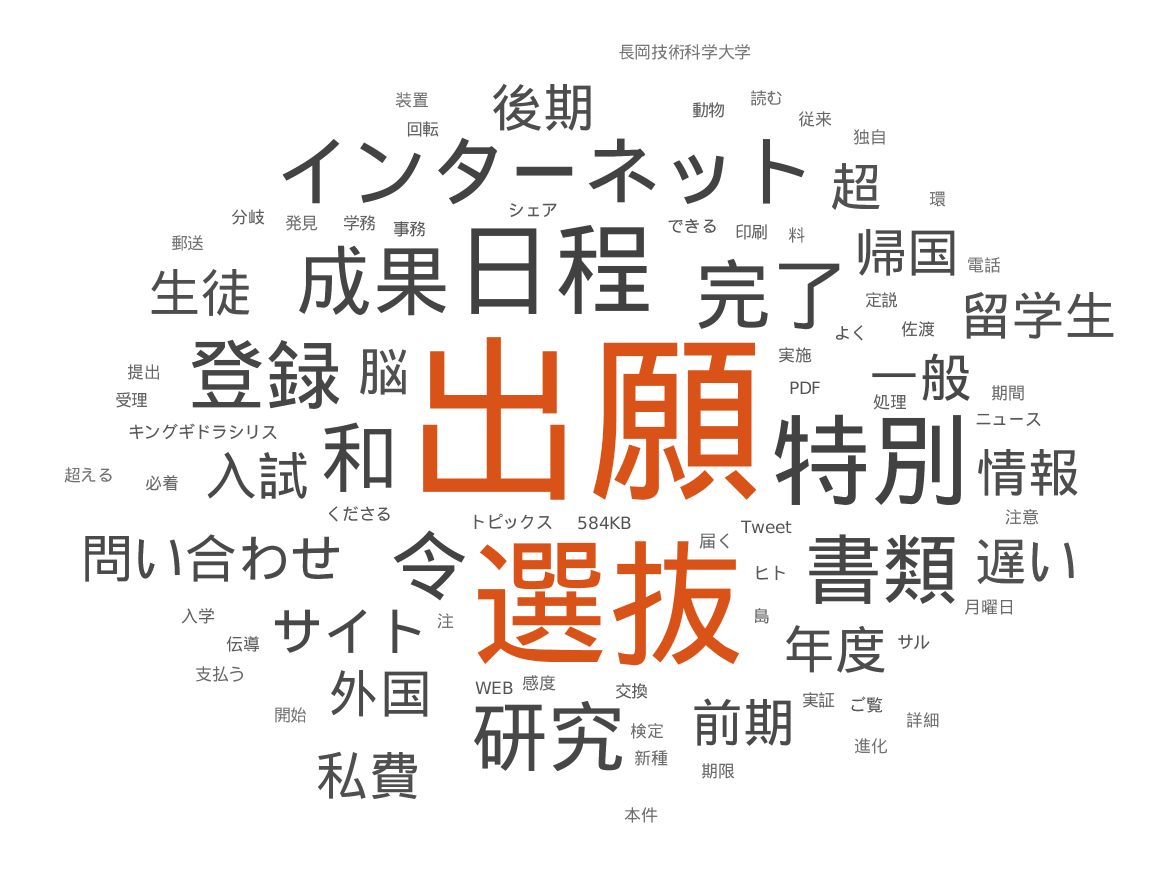
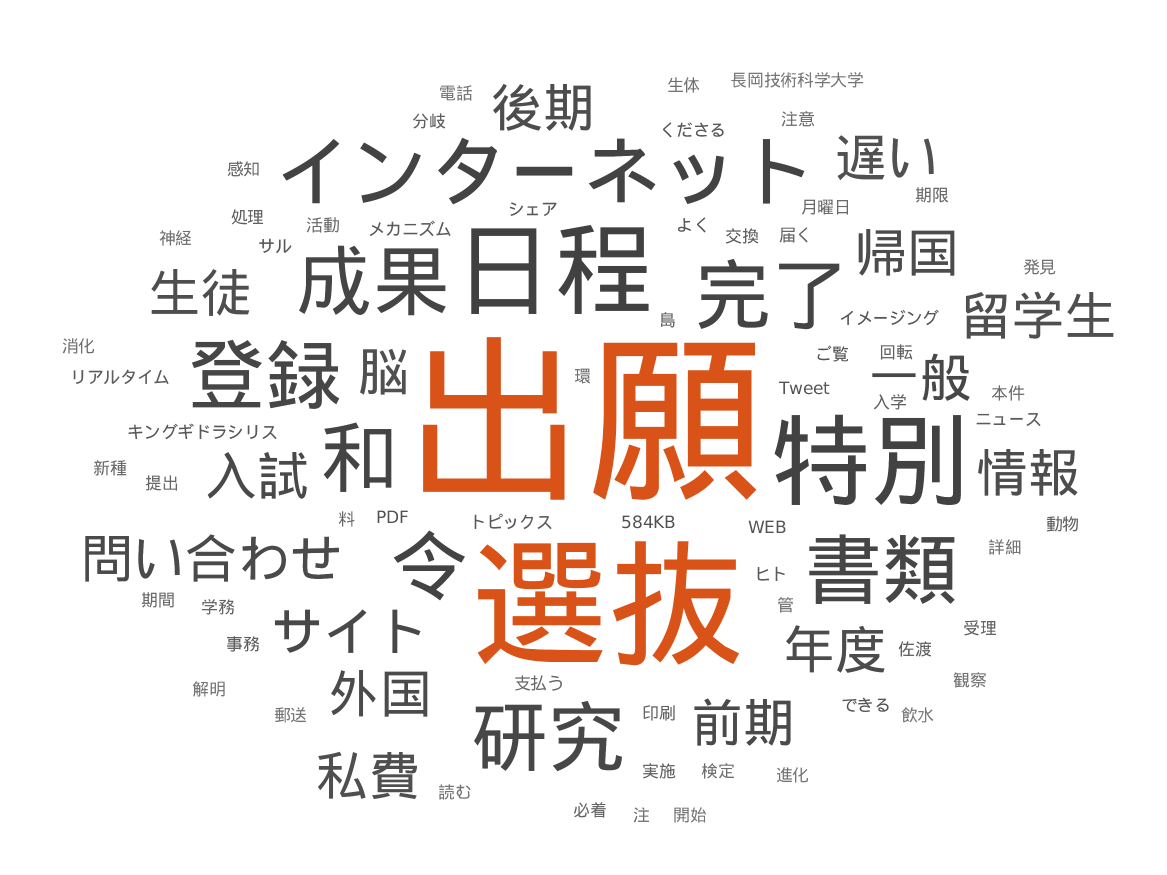
CI autogen [ci skip]

diff --git a/docs/_posts/2022-01-27-消化管における飲水感知メカニズムを解明－生体内イメージングによる神経活動のリアルタイム観察－.md b/docs/_posts/2022-01-27-消化管における飲水感知メカニズムを解明－生体内イメージングによる神経活動のリアルタイム観察－.md
@@ -1,0 +1,7 @@
+---
+layout: post
+title: 消化管における飲水感知メカニズムを解明－生体内イメージングによる神経活動のリアルタイム観察－
+---
+Autogenerated Word Cloud.
+Source\: [https://www.niigata-u.ac.jp/news/2022/99929/](https://www.niigata-u.ac.jp/news/2022/99929/)
+![WordCloud]({{ site.baseurl }}/assets/8f3e120efdc6e943ef1950d78fb877df.png)

diff --git a/docs/_posts/2022-01-27-令和4年度大学入学共通テスト[追試験]（新潟大学試験場）について.md b/docs/_posts/2022-01-27-令和4年度大学入学共通テスト[追試験]（新潟大学試験場）について.md
@@ -1,0 +1,7 @@
+---
+layout: post
+title: 令和4年度大学入学共通テスト[追試験]（新潟大学試験場）について
+---
+Autogenerated Word Cloud.
+Source\: [https://www.niigata-u.ac.jp/news/2022/99891/](https://www.niigata-u.ac.jp/news/2022/99891/)
+![WordCloud]({{ site.baseurl }}/assets/f0c1f0b0e5ac1e0ca206039ee25781b7.png)
